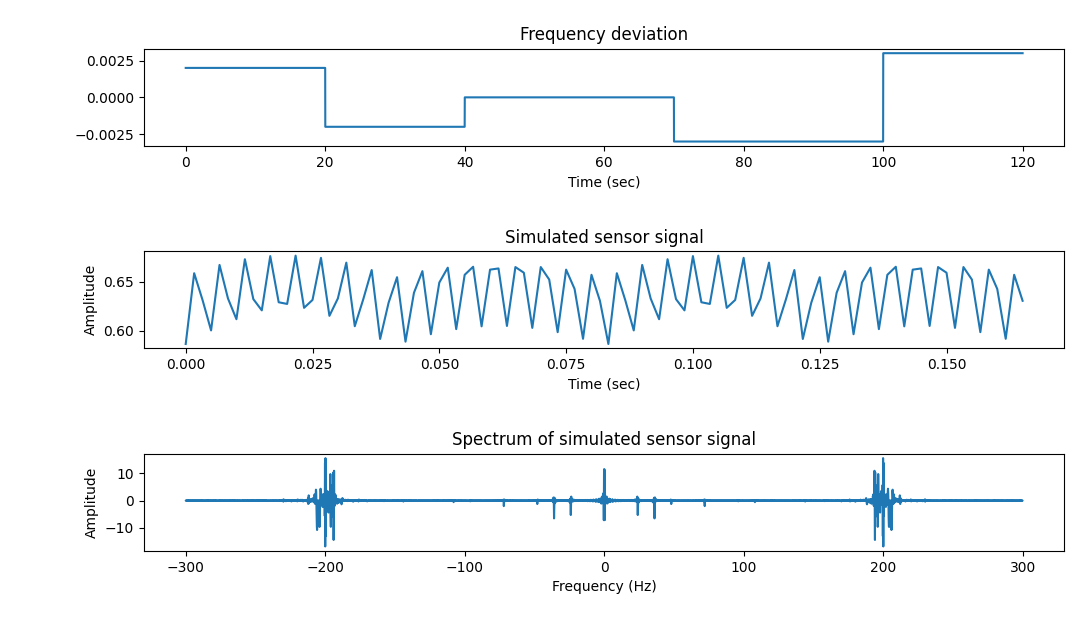
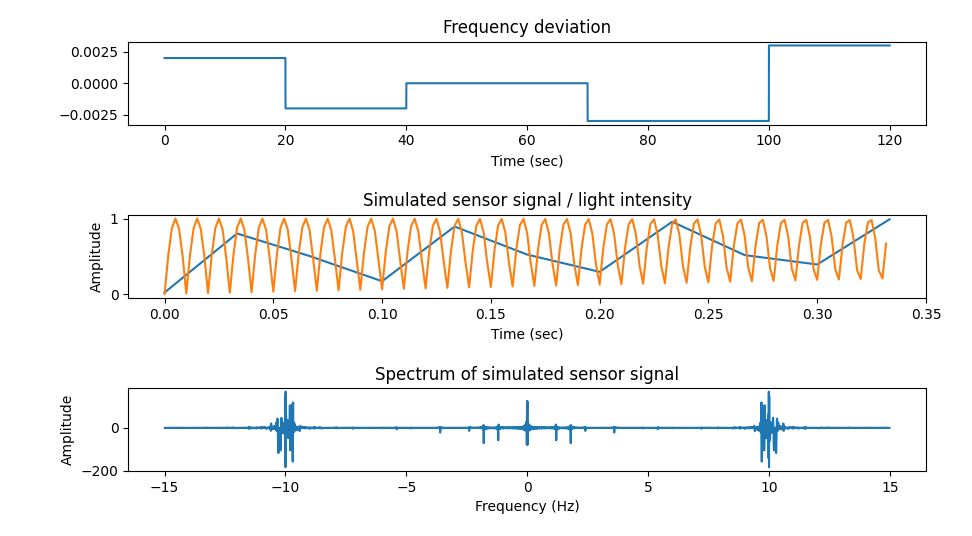
Fixed error.

diff --git a/scripts/fm.py b/scripts/fm.py
@@ -23,8 +23,14 @@ def gen_signals(fs: int, fc: int, duration: int):
     frequency modulated.
 
     :param fc: Nominal grid frequency
-    :param fs: Sampling frequency; must be an integer multiple of the video frame rate
+    :param fs: Sampling frequency; must be an integer multiple of the video
+    frame rate
     :param duration: Duration of the generated video
+    :returns t: Time series, spacing is the sampling frequency, i.e. some
+    integer
+    multiple of the frame rate
+    :returns sig_mod: Frequency modulated signal; absolute value of a sine wave.
+    :returns delta_phi:
     """
 
     # Time axis
@@ -58,28 +64,39 @@ def gen_signals(fs: int, fc: int, duration: int):
     return t, sig_mod, delta_phi
 
 
-def gen_lum_signal(sig_mod, fs, fps):
-    """Generate a sequence of luminance values from sig_mod.
+def gen_sensor_signal(sig_mod, fs, fps):
+    """Generate a sequence of sensor output values from the frequency modulated
+    illumination.
 
     :param sig_mod: Series of samples of brightness values.
     :param fs: Sampling frequency
     :param fps: Video frame rate
-    :returns lum: Array with one luminance value per frame.
+    :returns sig_sensor: Array with the simulated output of the camera sensor.
 
     Downsample
     """
     samples_per_frame = fs // fps
     total_samples = len(sig_mod)
-    lum = [np.average(sig_mod[t:t+samples_per_frame]) for t in range(0, total_samples, samples_per_frame)]
+    sig_sensor = np.array([np.average(sig_mod[t:t+samples_per_frame])
+                           for t
+                           in range(0, total_samples, samples_per_frame)])
 
-    assert np.shape(lum) == (total_samples // samples_per_frame, )
-    return np.array(lum)
+    # Normalise
+    min = np.min(sig_sensor)
+    max = np.max(sig_sensor)
+    normalised = (sig_sensor - min) / (max - min)
+    #min = np.min(normalised)
+    #max = np.max(normalised)
+
+    assert np.shape(sig_sensor) == (total_samples // samples_per_frame, )
+    t_sensor = np.arange(0, duration, 1/fps)
+    return t_sensor, normalised
 
 
-def gen_raw_video_file(lum, filename, contrast=256, speed='medium'):
-    """Pipe a raw video file to STDOUT, using the luminance values in lum.
+def gen_raw_video_file(sig_sensor, filename, contrast=256, speed='medium'):
+    """Pipe a raw video file to STDOUT, using the luminance values in sig_sensor.
 
-    :param lum: Array with luminance values.
+    :param sig_sensor: Array with luminance values.
     :param filenam: Name of the file that ffmpeg generates.
     :param contrast: Contrast of the generated video file.
 
@@ -88,14 +105,14 @@ def gen_raw_video_file(lum, filename, contrast=256, speed='medium'):
 
     assert contrast >= 0 and contrast < 256
 
-    cmd = ["/usr/bin/ffmpeg", '-f', 'rawvideo', '-vcodec', 'rawvideo', '-s', '1920x1080', '-r',
-           '30', '-pix_fmt', 'rgb24', '-i', 'pipe:', '-c:v', 'libx264', '-preset', speed,
-            '-qp', '0', '-y', filename]
+    cmd = ["/usr/bin/ffmpeg", '-f', 'rawvideo', '-vcodec', 'rawvideo', '-s',
+           '1920x1080', '-r', '30', '-pix_fmt', 'rgb24', '-i', 'pipe:', '-c:v',
+           'libx264', '-preset', speed, '-qp', '0', '-y', filename]
 
     p = subprocess.Popen(cmd, stdin=subprocess.PIPE)
     if p.returncode is None:
         try:
-            for l in lum:
+            for l in sig_sensor:
                 frm_array = arr.array('B', [int(l * contrast)]) * height * width * 3
                 p.stdin.write(frm_array)
         except BrokenPipeError:
@@ -105,7 +122,7 @@ def gen_raw_video_file(lum, filename, contrast=256, speed='medium'):
         print(errors)
 
 
-def plot(fs, t, delta_phi, sig_mod, lum):
+def plot(fs, fps, t, delta_phi, sig_mod, t_sensor, sig_sensor):
     """Plot the generated signal and its spectrum.
 
     :param fs: The sampling frequency; depends on grid frequency and camera
@@ -113,13 +130,13 @@ def plot(fs, t, delta_phi, sig_mod, lum):
     :param t: Time series
     :param delta_phi: time series of simulated grid frequency deviations.
     :param sig_mode: ??
-    :param lum: Time series of luminosity a camera sensor would see
+    :param sig_sensor: Time series of luminosity a camera sensor would see
     """
 
     # Compute the spectrum; subtract the average to avoid a peak at
     # a frequency of 0.
-    lum_spectrum = np.fft.fft(lum - np.mean(lum))
-    freqs = np.fft.fftfreq(len(lum), 1 / fs)
+    lum_spectrum = np.fft.fft(sig_sensor - np.mean(sig_sensor))
+    freqs = np.fft.fftfreq(len(sig_sensor), 1 / fps)
 
     fig, (ax0, ax1, ax2) = plt.subplots(3)
 
@@ -127,8 +144,9 @@ def plot(fs, t, delta_phi, sig_mod, lum):
     ax0.set_title("Frequency deviation")
     ax0.set_xlabel("Time (sec)")
 
-    ax1.plot(t[:100], lum[:100])
-    ax1.set_title("Simulated sensor signal")
+    ax1.plot(t_sensor[:11], sig_sensor[:11])
+    ax1.plot(t[:200], sig_mod[:200])
+    ax1.set_title("Simulated sensor signal / light intensity")
     ax1.set_xlabel("Time (sec)")
     ax1.set_ylabel("Amplitude")
 
@@ -168,7 +186,7 @@ if __name__ == '__main__':
     fs = args.fps * 20
 
     t, sig_mod, delta_phi = gen_signals(fs, args.grid, duration)
-    lum = gen_lum_signal(sig_mod, fs, args.fps)
+    t_sensor, sig_sensor = gen_sensor_signal(sig_mod, fs, args.fps)
     if args.plot:
-        plot(fs, t, delta_phi, sig_mod, lum)
-    gen_raw_video_file(lum, args.filename, contrast=args.contrast)
+        plot(fs, args.fps, t, delta_phi, sig_mod, t_sensor, sig_sensor)
+    gen_raw_video_file(sig_sensor, args.filename, contrast=args.contrast)
